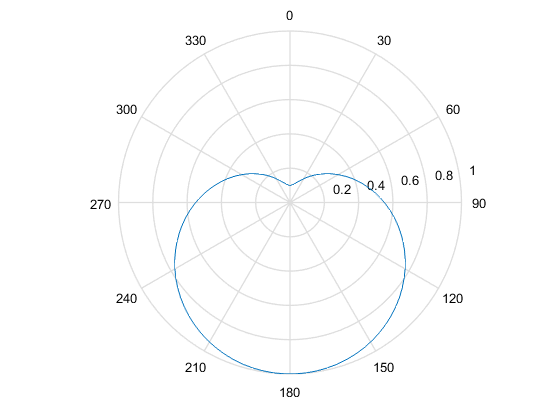
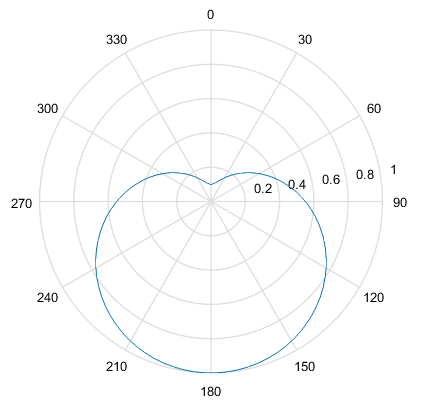
boat speed is now a limacon, function inputs have effect

diff --git a/getTimeFromPoints.m b/getTimeFromPoints.m
@@ -39,10 +39,12 @@ function res = getTimeFromPoints(startPoint, endPoint, Points, windX,windY)
             end
             
             %Finding the boat speed
-            speed = norm([X_wind(i),Y_wind(i)])*(angle-pi/6)/(pi);
-            if angle < 30
-                speed = abs(angle/10);
-            end
+            %ooh aah limacon
+            speed = norm([X_wind(i), Y_wind(i)])*(0.45*cos(angle) + 0.55);
+%             speed = norm([X_wind(i),Y_wind(i)])*(angle-pi/6)/(pi);
+%             if angle < 30
+%                 speed = abs(angle/10);
+%             end
             time = time + distancebetweenpoints(path(i,:),path(i+1,:))/speed;
         end
         res = time;

diff --git a/letsdoathing.m b/letsdoathing.m
@@ -1,12 +1,12 @@
 function res = letsdoathing(nWaypoints, startPoint, endPoint)
     % set number of waypoints, start point, and end point
-    nWaypoints = 8;
-    startPoint = [2,1];
-    endPoint = [1,2];
+    nWaypoints = nWaypoints;
+    startPoint = startPoint;
+    endPoint = endPoint;
     
-    % wangle is the direction the wind is COMING FROM
+    % wangle is the direction the wind is GOING TOWARD
     % wind speed is in knots
-    wangle = 3*pi/4;
+    wangle = 5*pi/4;
     wspeed = 2;
     % x and y values of wind vector are calculated
     % n is the number of values in the grid
